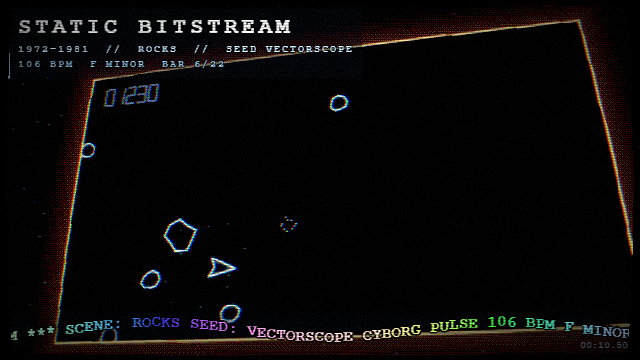
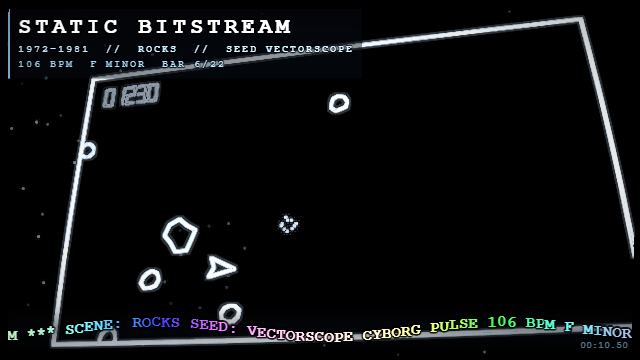
Add monochrome and colour vector displays (#12)
Trace scene contours with beam glow, curvature and subtle wobble. Use the monochrome vector display for rocks by default, and update documentation and gallery images.

diff --git a/src/styles/index.js b/src/styles/index.js
@@ -367,9 +367,10 @@ uniform vec2 uRes;             // canvas
 uniform vec2 uVRes;            // the picture's resolution (always the canvas's)
 uniform vec2 uLineRes;         // the screen's own lines: its scan lines, an LCD's grid, the tape's jitter
 uniform float uTime, uKick, uSnare, uEnergy;
-uniform int uPalMode;          // 0 none, 1 C64, 2 levels per channel, 3 handheld greens, 4 EGA, 5 green mono, 6 grey, 7 phone LCD
+uniform int uPalMode;          // 0 none, 1 C64, 2 levels per channel, 3 handheld greens, 4 EGA, 5 green mono, 6 grey, 7 phone LCD,
+                               // 8 a black-and-white vector beam, 9 a colour vector beam
 uniform float uLevels, uDither;
-uniform int uDisplay;          // 0 CRT, 1 LCD, 2 TV, 3 clean, 4 modern, 5 videotape
+uniform int uDisplay;          // 0 CRT, 1 LCD, 2 TV, 3 clean, 4 modern, 5 videotape, 6 vector
 uniform float uBloom, uScan, uBarrel, uAberr, uGrain, uVignette;
 uniform float uFade;           // 0..1, a fade to black between parts
 uniform float uImpact;         // 0 for most scenes; 1 gives a zoom blur on the kick
@@ -451,9 +452,35 @@ vec3 quantize(vec3 c, vec2 cell, float dither) {
   return c;
 }
 
+// The vector monitor's beam through a picture: a beam only draws lines, so it traces the picture's lines and
+// the outlines of what it fills, and leaves the inside of every shape unlit. An edge of colour counts as much
+// as one of brightness (a Sobel filter on each channel); a line already drawn thin is found as brighter than
+// what is round it. Its colour is that of the lit side. r: how far apart, in the picture's pixels, it looks.
+vec4 vectorBeam(vec2 p, float r) {
+  vec2 o = r / uVRes;
+  vec3 c = texture(uSceneSoft, p).rgb;
+  vec3 n = texture(uSceneSoft, p + vec2(0.0, o.y)).rgb, s = texture(uSceneSoft, p - vec2(0.0, o.y)).rgb;
+  vec3 e = texture(uSceneSoft, p + vec2(o.x, 0.0)).rgb, w = texture(uSceneSoft, p - vec2(o.x, 0.0)).rgb;
+  vec3 ne = texture(uSceneSoft, p + o).rgb, sw = texture(uSceneSoft, p - o).rgb;
+  vec3 nw = texture(uSceneSoft, p + vec2(-o.x, o.y)).rgb, se = texture(uSceneSoft, p + vec2(o.x, -o.y)).rgb;
+  vec3 gx = (ne + 2.0 * e + se) - (nw + 2.0 * w + sw);
+  vec3 gy = (nw + 2.0 * n + ne) - (sw + 2.0 * s + se);
+  float edge = length(vec3(length(vec2(gx.r, gy.r)), length(vec2(gx.g, gy.g)), length(vec2(gx.b, gy.b)))) * 0.25;
+  vec3 ridge = c - (n + s + e + w + ne + nw + se + sw) / 8.0;
+  float line = max(ridge.r, max(ridge.g, ridge.b));
+  vec3 lit = max(max(max(c, n), max(s, e)), max(max(w, ne), max(max(nw, se), sw)));
+  return vec4(lit, smoothstep(0.1, 0.32, max(edge, line * 1.6)));
+}
+
 void main() {
   vec2 c = vUv - 0.5;
   vec2 uv = vUv + c * dot(c, c) * uBarrel;          // tube curvature
+  if (uDisplay == 6) {
+    // a vector monitor's beam is steered, not scanned: a very slight wobble across, and the picture pumping a
+    // little with the bright things on it (a real tube's, photographed: e-basteln.de's Asteroids monitor)
+    uv.x += 0.0004 * sin(uv.y * 9.0 + uTime * 2.3);
+    uv = 0.5 + (uv - 0.5) * (1.0 + 0.003 * uEnergy);
+  }
 
   vec2 cell = floor(uv * uVRes);
   vec2 suv = (cell + 0.5) / uVRes;                  // centre of the era's pixel
@@ -518,7 +545,23 @@ void main() {
     col = mix(col, acc, clamp(zb * 0.85, 0.0, 0.7)) + acc * zb * 0.12;
   }
 
-  if (uBloom > 0.0) {
+  if (uDisplay == 6) {
+    // the vector monitor: the beam draws the picture's lines and outlines, everything else is unlit phosphor,
+    // black; a glow spreads round every line (the same lines found wider apart) and the brightest run to white.
+    // The black-and-white tube (Asteroids' DVG): one blue-white, sixteen intensities a vector. The colour tube
+    // (the AVG of Tempest and Star Wars): three guns each on or off - seven colours - at any intensity. (Its
+    // persistence is a few milliseconds, under a frame: nothing trails.)
+    vec4 b = vectorBeam(uv, 1.0), g = vectorBeam(uv, 3.0);
+    float lit = max(b.r, max(b.g, b.b)), litG = max(g.r, max(g.g, g.b));
+    float I = b.a * lit, IG = g.a * litG * 0.22 * uBloom;
+    vec3 hue = vec3(0.82, 0.9, 1.0), hueG = hue;
+    if (uPalMode == 9) {
+      hue = step(vec3(0.5 * lit), b.rgb);
+      hueG = step(vec3(0.5 * litG), g.rgb);
+    } else I = floor(I * 15.0 + 0.5) / 15.0;
+    col = hue * I + hueG * IG;
+    col = mix(col, vec3(max(col.r, max(col.g, col.b))), smoothstep(0.85, 1.3, I) * 0.35);
+  } else if (uBloom > 0.0) {
     vec3 bloom = vec3(0.0);
     float rad = 0.005 + 0.012 * uEnergy;
     for (int i = 0; i < 12; i++) {

diff --git a/src/core/displays.js b/src/core/displays.js
@@ -27,6 +27,20 @@ export const DISPLAYS = {
     palette: 'levels', levels: 4, dither: 0.35,  // a few bright colours, hard edges
     tube: 'crt', bloom: 1.3, scan: 0.35, barrel: 0.085, aberr: 0.0016, grain: 0.03, vignette: 0.7,
   },
+  vector: {
+    name: 'VECTOR', label: 'Black-and-white vector monitor', blurb: 'a beam drawing only lines - outlines where the picture had fills - on unlit phosphor: blue-white, sixteen intensities, a glow round every line',
+    screen: 'crt',
+    lines: 0, pixelAspect: 1,
+    palette: 'beam', levels: 16, dither: 0,
+    tube: 'vector', bloom: 1, scan: 0, barrel: 0.06, aberr: 0, grain: 0, vignette: 0.35,
+  },
+  colorvector: {
+    name: 'COLOR VECTOR', label: 'Colour vector monitor', blurb: 'the colour vector tube: lines and outlines only, in seven colours - three guns each on or off - at any intensity',
+    screen: 'crt',
+    lines: 0, pixelAspect: 1,
+    palette: 'rgb3', levels: 0, dither: 0,
+    tube: 'vector', bloom: 1, scan: 0, barrel: 0.06, aberr: 0, grain: 0, vignette: 0.35,
+  },
   mono: {
     name: 'MONO', label: 'Monochrome monitor', blurb: 'green phosphor on black, the office PC before colour',
     screen: 'crt',
@@ -125,7 +139,8 @@ export const DISPLAY_NAMES = Object.keys(DISPLAYS);
  */
 export const SCENE_DISPLAY = {
   paddles: 'bw',
-  invaders: 'arcade', rocks: 'arcade', maze: 'arcade', bricks: 'arcade', lightcycles: 'arcade',
+  rocks: 'vector',                    // (the rock shooter of 1979 was drawn by a beam, on a vector monitor)
+  invaders: 'arcade', maze: 'arcade', bricks: 'arcade', lightcycles: 'arcade',
   boxer: 'arcade', pyramid: 'arcade', outrun: 'arcade',
   lcd: 'modern',
   snake: 'nokia',                     // (the phone's game, on the phone's screen)
@@ -142,8 +157,8 @@ export function displayFor(scene, eraDisplay, forced = 'auto') {
   return SCENE_DISPLAY[scene] || eraDisplay || 'modern';
 }
 
-const PALETTE_MODE = { none: 0, c64: 1, levels: 2, dmg: 3, ega: 4, mono: 5, gray: 6, phone: 7 };
-const TUBE_MODE = { crt: 0, lcd: 1, tv: 2, clean: 3, modern: 4, vhs: 5 };
+const PALETTE_MODE = { none: 0, c64: 1, levels: 2, dmg: 3, ega: 4, mono: 5, gray: 6, phone: 7, beam: 8, rgb3: 9 };
+const TUBE_MODE = { crt: 0, lcd: 1, tv: 2, clean: 3, modern: 4, vhs: 5, vector: 6 };
 
 /** The numbers the post shader needs for a display: a screen that was not a CRT gets none of a CRT's effects. */
 export function displayUniforms(name) {

diff --git a/README.md b/README.md
@@ -16,7 +16,7 @@ Then ride it through half a century, from 1972 to now.**
 
 ![THE JOURNEY: every era from the arcade to the 64k intro, each with its own card, scenes and music](docs/gallery/journey.gif)
 
-`v0.2` · 7 eras · 45 scenes · 35 music styles · 14 displays · 6 sound boards · endless autoplay · runs in your browser · renders to mp4 ·
+`v0.2` · 7 eras · 45 scenes · 35 music styles · 16 displays · 6 sound boards · endless autoplay · runs in your browser · renders to mp4 ·
 no assets, only maths · built with [3dgiordano/agent-plugins](https://github.com/3dgiordano/agent-plugins)
 
 </div>
@@ -152,7 +152,7 @@ glow and fringes for what was seen on a CRT; for an LCD or anything later, only
 its palette. Each display is one technology, named for it. On **AUTO** (the
 default) every scene is seen through the screen it belongs to: a game through
 its own machine's (Pong on a black-and-white set, the arcade games on the
-arcade monitor, the phone's snake on the phone, the 16-bit space shooter on its
+arcade monitor, the rocks on the vector monitor that drew them, the phone's snake on the phone, the 16-bit space shooter on its
 console), a film or a television series
 through the videotape it was watched on, the LCD game as it draws its own
 device (MODERN). The demo effects go through their era's, with three
@@ -166,6 +166,8 @@ yesterday's screens.
 |---|---|
 | `bw` **B/W** | a black-and-white television: grey, soft and grainy |
 | `arcade` **ARCADE** | the coin-op raster monitor: a few hard, bright colours, heavy bloom, a curved tube |
+| `vector` **VECTOR** | the black-and-white vector monitor: a beam drawing only lines - the outlines of whatever a picture fills - on unlit phosphor, blue-white, sixteen intensities, a glow round every line |
+| `colorvector` **COLOR VECTOR** | the colour vector monitor: lines and outlines only, in seven colours - three guns each on or off - at any intensity |
 | `mono` **MONO** | green phosphor on black, the office PC before colour |
 | `c64` **C64** | the 8-bit home computer's 16 colours, on the family TV |
 | `vhs` **VHS** | a film or a series on tape, played back well: soft brightness the deck sharpens back, colour smeared wide and a little late, lines that wave, the heads switching at the bottom |
@@ -540,7 +542,7 @@ seedscene info    [options]     show what a seed composes
 | `--seed <word>` | anything at all; the same word always gives the same demo | random |
 | `--scene <name>` | one of the forty-five scenes (`--style`, its old name, works too) | chosen by the seed - one of the era's, if the era is given |
 | `--era <name>` | `auto` `1972` `1982` `1990` `1994` `1997` `2000` `2010` — or any year inside one, or its old name (`arcade` `c64` `amiga` `dos` `console` `handheld` `y2k` `modern`) | an era the scene belongs to |
-| `--display <name>` | `auto` `bw` `arcade` `mono` `c64` `vhs` `ega` `amiga` `vga` `snes` `composite` `gameboy` `nokia` `svga` `modern` | the screen: on `auto` each scene its own, or its era's |
+| `--display <name>` | `auto` `bw` `arcade` `vector` `colorvector` `mono` `c64` `vhs` `ega` `amiga` `vga` `snes` `composite` `gameboy` `nokia` `svga` `modern` | the screen: on `auto` each scene its own, or its era's |
 | `--board <name>` | `auto` `hifi` `paula` `opl3` `awe32` `ym` `sid` | the sound board: on `auto` each scene its own, or its era's |
 | `--music <name>` | `auto` or one of the thirty-five styles | music of the era |
 | `--res <WxH\|preset>` | `854x480`, or `240p` `360p` `480p` `576p` `720p` `1080p` (or `--width` and `--height`) | `480p` |

diff --git a/docs/BUILD-REPORT-v0.2.md b/docs/BUILD-REPORT-v0.2.md
@@ -29,7 +29,7 @@ sound board.
 ## Where it stands, 2026-11-02
 
 - **Built:** forty-five scenes in seven eras (spans of years, 1972 to now; the
-  last, 2010–now, has no scenes yet), thirty-five music styles, fourteen
+  last, 2010–now, has no scenes yet), thirty-five music styles, sixteen
   displays and six sound boards, each scene with its own or its era's; THE
   JOURNEY (three scenes an era, going on through the lists over replays),
   AUTOPLAY, born in, greetings, the screensaver, the sounds between the tracks,
@@ -3972,6 +3972,47 @@ boards chosen by style, the owner's call.
 | The other styles and boards | no score and no other chip's code changed |
 | Live, muted, `board=sid` in 1982–1989 | the scene plays, the HUD reads "sound SID", no console errors |
 | `npm test` | 22 checks pass |
+
+## The vector monitors
+
+The split's second piece: displays for the games a beam drew. Built from a
+photograph of a real vector tube drawing the rock shooter (e-basteln.de's
+Asteroids mini, on a Vectrex tube), an account of how the beam and the
+phosphor work (arcadevector.pages.dev) and the instruction sets of Atari's
+vector generators (arcarc.xmission.com's notes, which warn they may hold
+errors; jmargolin.com's history).
+
+The first version only blackened the dim, glowed and whitened the brightest:
+the owner, forcing it on other scenes, saw no difference, and the rocks
+looked as they had - the scene already drew its lines on black. A vector
+monitor cannot fill: its beam draws lines from point to point. So the display
+now traces any picture's lines and the outlines of what it fills (an edge of
+colour or brightness on each channel; a thin line found as brighter than what
+is round it) and leaves the inside of every shape unlit. And at the owner's
+word (option A) it is two displays, one for each tube:
+
+- `vector`, the black-and-white tube of the rock shooter and the lunar
+  lander: one blue-white, sixteen intensities (the Digital Vector
+  Generator's four-bit intensity field; the count is derived from its width).
+- `colorvector`, the colour tube of the tube shooter (1981, the first in
+  colour) and the space-war cockpit: three bits of colour - "8 basic colors",
+  one of them the beam off, so seven - each at any of 256 intensities (the
+  Analog Vector Generator's colour opcode, given for the cockpit game; the
+  same for the tube shooter is its author's belief).
+
+The phosphor fades in a few milliseconds, under a frame, so nothing trails -
+which also keeps every frame computable from its time alone.
+
+Compared with the photograph: black between the lines in both, thin lines,
+no pixels or scan lines. The rocks' lines are drawn as bright as the ship's,
+where in the photograph the rocks are dimmer than the ship, the saucer and the
+shots - the scene's own drawing, approved before, left for the owner's look.
+
+| Check | Result |
+|---|---|
+| Live on the real GPU, muted: `rocks` on AUTO | "screen VECTOR (auto)"; thin blue-white lines on black; no console errors |
+| `plasma` forced on `colorvector`, `fire` on `vector` | the plasma's bands become thin contour lines in pure colours, the fire the outlines of its flames; the inside of every shape black |
+| `npm test` | 22 checks pass, sixteen displays complete |
 
 ## What went wrong in the first round
 

diff --git a/docs/PLAN-v0.2.md b/docs/PLAN-v0.2.md
@@ -843,8 +843,8 @@ not named here moves to 0.3.0 ([PLAN-v0.3.md](PLAN-v0.3.md)): rounds 1–4, 6–
 
 | # | Piece | Why it is in 0.2.0 | Effort |
 |---|---|---|---|
-| A | **The SID**, a sound board of 1982–1989 (built 2026-11-02, waiting for the owner's ear): three voices with their four waveforms (pulse with its width, saw, triangle, noise), ring modulation and sync, the 6581's resonant filter, an ADSR per voice, chords as 50 Hz arpeggios; on the YM2149's pattern | the era is seen on the C64's display and heard on the Atari ST's chip or the studio, never on a C64; the plan had taken the `chiptune` style for the chip | M |
-| B | **The vector display**: a beam drawing lines on black - no raster, no scan lines, no dither; the glow of a bright line, a short persistence, a faint shimmer (never a flash) | `rocks` was a vector game seen today on a raster monitor; round 11's vector tube and wireframe tank need it | S |
+| A | **The SID**, a sound board of 1982–1989 (done 2026-11-02, merged by the owner): three voices with their four waveforms (pulse with its width, saw, triangle, noise), ring modulation and sync, the 6581's resonant filter, an ADSR per voice, chords as 50 Hz arpeggios; on the YM2149's pattern | the era is seen on the C64's display and heard on the Atari ST's chip or the studio, never on a C64; the plan had taken the `chiptune` style for the chip | M |
+| B | **The vector displays** (built 2026-11-02, waiting for the owner's look): `vector` (black and white, sixteen intensities) and `colorvector` (seven colours, three guns on or off), at the owner's word; a beam drawing only lines - any picture traced as its lines and outlines, the inside of shapes unlit - no raster, no scan lines, no dither; the glow of a bright line, a faint shimmer (never a flash); its persistence is a few milliseconds, under a frame, so it leaves no trail | `rocks` was a vector game seen today on a raster monitor; round 11's vector tube and wireframe tank need it | S |
 | C | **Round 11's rest**, the eras it fills first: skate park and kart race (1997–1999), DJ decks (2000–2009), vector tube and wireframe tank on the vector display, then road crossing, behind-view shooter, cartoon castle, artillery, football match; `terrace` | the round under way; four of its scenes go to the thin eras | L |
 | D | **Shader art for 2010–now**: three or four scenes of the era's own art, each from a real piece of it - a raymarched scene of signed distances (soft shadows, ambient occlusion), a flight into a fractal, a chromatic tunnel, a neon grid | the era named *Shader art* has no scene, and `synthwave` plays in no programme | M |
 | E | **2000–2009 and 1997–1999 to three scenes or more**: the code rain (the film is of 1999), a 64k intro's camera flight, besides C's | an era with one or two scenes repeats itself in THE JOURNEY and AUTOPLAY | M |

diff --git a/CHANGELOG.md b/CHANGELOG.md
@@ -4,7 +4,7 @@
 
 The release that turns the tool into **SEEDSCENE**: a name, a personality,
 a Commodore 64 front door, seven eras of computing from 1972 to now,
-forty-five scenes, thirty-five styles of music, fourteen displays and six
+forty-five scenes, thirty-five styles of music, sixteen displays and six
 sound boards, an endless AUTOPLAY channel, and a live mode you
 can drive entirely from the keyboard.
 
@@ -383,6 +383,21 @@ scene now has one era, a span of years (see **Eras are spans of years** and
   vowel's formants, steady as a machine's voice - over synth pads. In the
   1982–1989 era, on the synthesizer's own voices or the Atari ST's chip. It
   passes every check of the music audit.
+- **The vector monitors**, two displays: `vector`, the black-and-white tube
+  the rock shooter of 1979 was drawn on, and `colorvector`, the colour tube
+  of the 1981 tube shooter and the space-war cockpit. From a photograph of a
+  real vector tube drawing the rocks, an account of how the beam and the
+  phosphor work, and the instruction sets of the vector generators. A beam
+  only draws lines, so the display traces any picture's lines and the outlines
+  of what it fills, and leaves the inside of every shape unlit, black: a filled
+  scene becomes its contours. The black-and-white tube draws them blue-white
+  in sixteen intensities (the generator's four-bit field); the colour tube in
+  seven colours - three guns, each on or off - at any intensity. A glow round
+  every line, the brightest running to white; the tube's curvature, a very
+  slight wobble across and the picture pumping a little with the bright
+  things on it, never a flash. Its phosphor fades in a few milliseconds,
+  under a frame, so nothing trails. `rocks` is seen through `vector` now (on
+  AUTO); `D` live, `?display=`, `--display`.
 - **The Commodore 64's sound chip, the SID** (the MOS 6581), a sixth sound
   board, from the chip's datasheet: three kinds of wave and noise on the PAL
   C64's clock - a pulse whose 12-bit width sweeps, a sawtooth, a triangle, and
@@ -779,7 +794,7 @@ scene now has one era, a span of years (see **Eras are spans of years** and
   Arkanoid and OutRun to the 1980s; the 16-bit space shooter and the dinosaur
   film to 1990–1993). The machine names still find their era.
 - **Displays.** The screens are their own catalogue, apart from the eras:
-  fourteen, each named for one technology - B/W, ARCADE, MONO, C64, VHS, EGA,
+  sixteen, each named for one technology - B/W, ARCADE, VECTOR, COLOR VECTOR, MONO, C64, VHS, EGA,
   AMIGA, VGA, SNES, COMPOSITE TV, GAME BOY, NOKIA, SVGA and MODERN (no filter).
   Every display draws at full resolution - a simulation, not an emulation -
   and only one that was a CRT gets a CRT's scan lines, curvature and glow; an

diff --git a/.agent/progress.md b/.agent/progress.md
@@ -6,7 +6,8 @@ Plan: docs/PLAN-v0.2.md section 8, "What 0.2.0 still takes", then docs/BUILD-REP
 ## Open
 - returned: v0.2's content - split by the owner (2026-11-02, Q9): 0.2.0 takes PLAN-v0.2.md section 8 "What 0.2.0 still takes" (SID, vector display, round 11's rest, shader art for 2010, thin eras to three scenes); the rest in docs/PLAN-v0.3.md; which piece first is the owner's ([detail](progress-plan.md))
 - returned: version control - the 0.2.0 WIP is on GitHub and live at https://3dgiordano.github.io/seedscene/; the owner committed this session's work on 2026-11-01 (one commit unpushed when checked); the official release when the plan is closed is the owner's ([detail](progress-git.md))
-- returned: the SID (piece A) is built on branch sid-chip, not committed: the owner's ear, then the commit and the PR, are the owner's; ST buzz on the SID or not (boards by style) is the owner's too
+- returned: the vector displays (piece B, vector and colorvector) are built on branch vector-display, not committed: the owner's look, then the commit and the PR; whether the rocks should be drawn dimmer than the ship and shots, as on the real screen, is the owner's too
+- returned: ST buzz on the SID or not - it plays there with an unfiltered sawtooth buzzer; keeping it off needs boards chosen by style, the owner's call
 - returned: dead air in 19 approved styles, found by `npm run review:music -- gaps`; whether to fill them (intros and breakdowns, likely) is the owner's ([detail](progress-music.md))
 
-Next: the owner listens to the four 1982-1989 styles on the SID (live, ?era=1982&board=sid) and approves the commit; then piece B, the vector display, or another of A-E.
+Next: the owner looks at the rocks on the vector display (live, ?scene=rocks) and approves the commit of branch vector-display; then piece C, D or E.

diff --git a/.agent/progress-plan.md b/.agent/progress-plan.md
@@ -59,6 +59,8 @@ Outside the plan, at the owner's word (2026-11-01), each checked live and approv
 
 Split on 2026-11-02 (Q9): 0.2.0 takes PLAN-v0.2.md section 8, "What 0.2.0 still takes" (A-E); the rest is docs/PLAN-v0.3.md.
 
-Built on 2026-11-02 (branch sid-chip, waiting for the owner's ear): piece A, the SID - a sixth board, half the tracks of 1982-1989 (ERA_CHIPS ['sid', 'sid', 'ym', null]); the four styles pass the audit; the reviewer's faults put right on the chip alone; ST buzz plays on it with an unfiltered sawtooth buzzer (keeping it off the SID would need boards by style - the owner's call).
+Done on 2026-11-02, merged by the owner (#11): piece A, the SID - a sixth board, half the tracks of 1982-1989 (ERA_CHIPS ['sid', 'sid', 'ym', null]); the four styles pass the audit; the reviewer's faults put right on the chip alone; ST buzz plays on it with an unfiltered sawtooth buzzer (keeping it off the SID would need boards by style - the owner's call).
+
+Built on 2026-11-02 (branch vector-display, waiting for the owner's look): piece B, the vector displays - vector (B/W, 16 intensities) and colorvector (7 colours), each tracing a picture's lines and outlines (the first version barely filtered, the owner found); rocks seen through vector; from a photo of a real vector tube (e-basteln.de) and arcadevector.pages.dev; no persistence trail (a few ms, under a frame).
 
 The next piece is the owner's pick, or Claude's if they leave it open.
